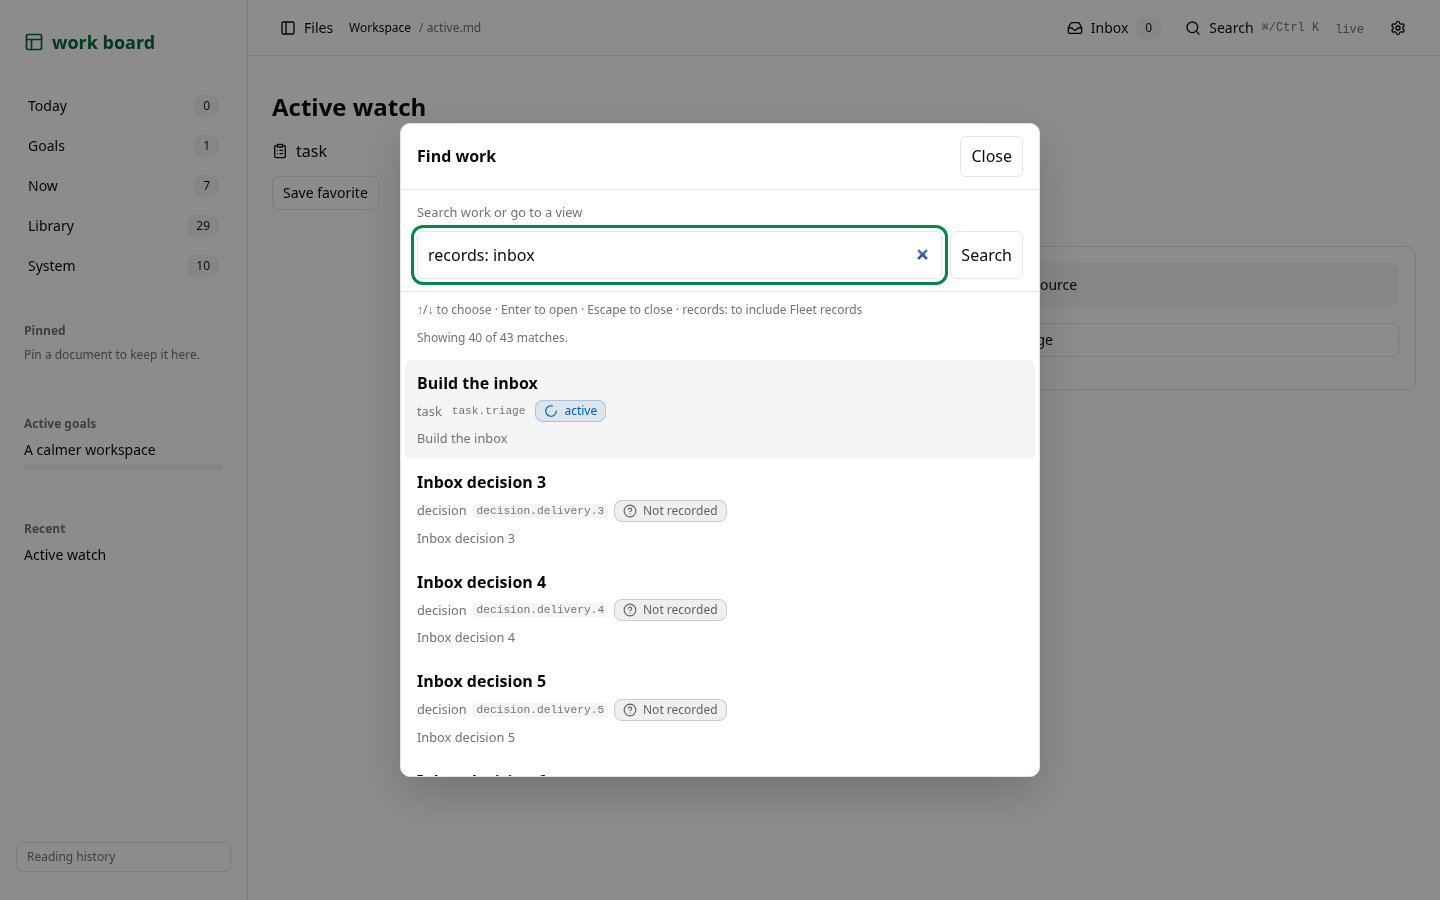
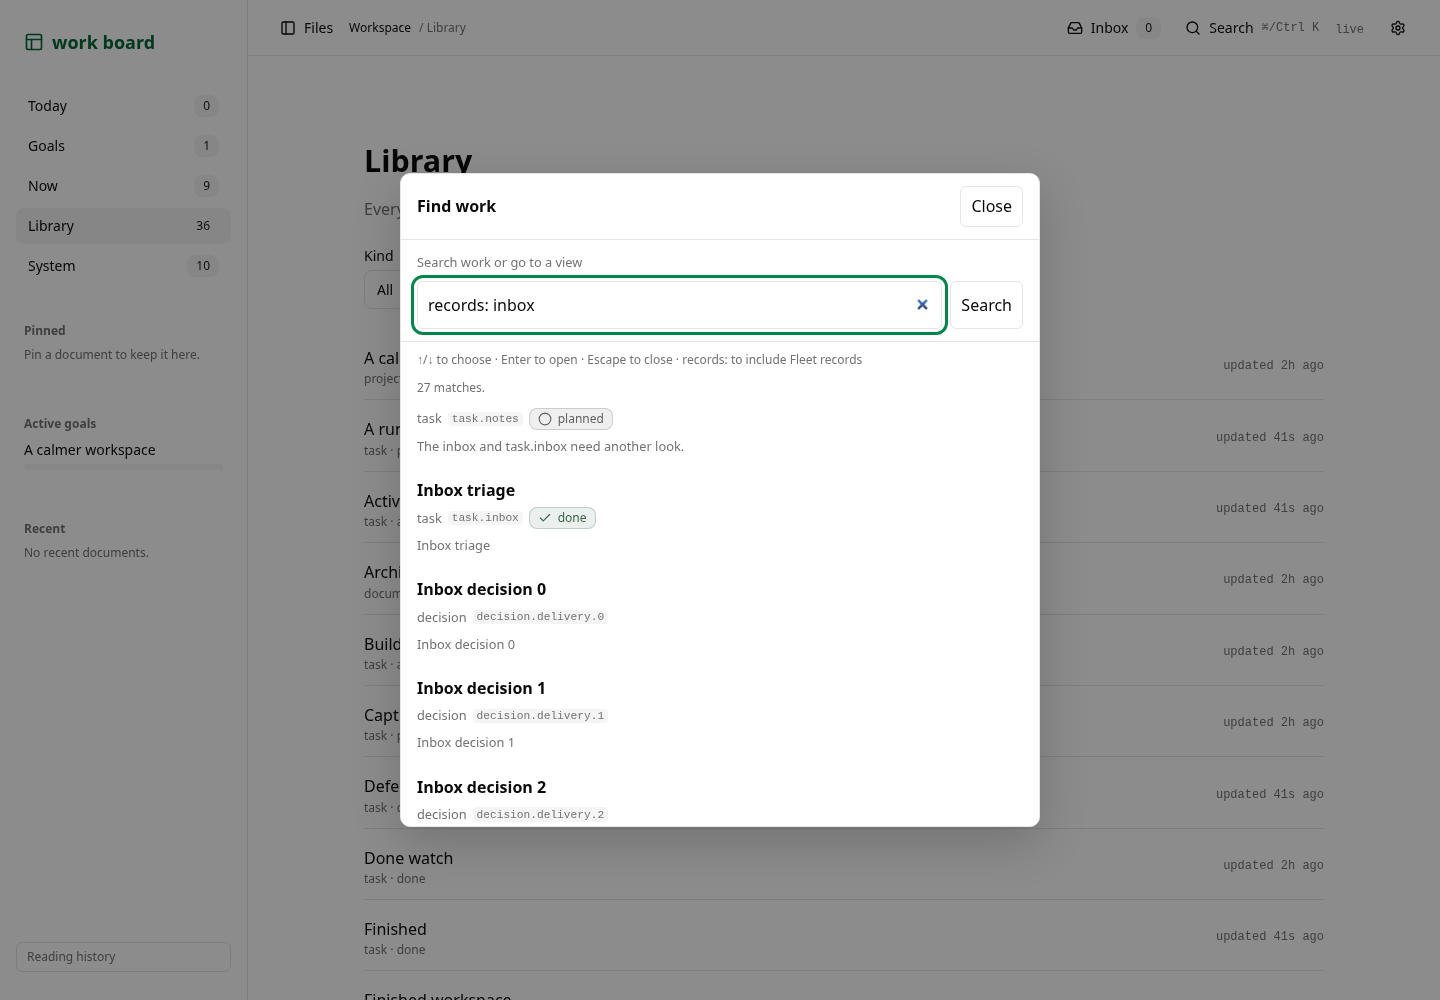
Rank work items before passages and filter Fleet report sources

diff --git a/packages/work-board/src/client/react/fleetSearch.dom.spec.tsx b/packages/work-board/src/client/react/fleetSearch.dom.spec.tsx
@@ -1,0 +1,73 @@
+import { act } from "react";
+import { expect, it, vi } from "vitest";
+import { eventually, expectNoReactWarnings } from "@shivaedev/effect-react/testing.ts";
+import { renderBoard } from "#test/react.tsx";
+import { fleetRankingFixture } from "#test/searchRankingFixture.ts";
+import { SearchDialog } from "./SearchDialog.tsx";
+
+Object.assign(globalThis, { "IS_REACT_ACT_ENVIRONMENT": true });
+expectNoReactWarnings();
+
+it("puts open body matches and done items before headings, includes Fleet status and reports only with records:, and keeps anchors unique", async () => {
+	const { files, modified } = fleetRankingFixture();
+	const view = await renderBoard(
+		files,
+		(api) => (
+			<SearchDialog
+				api={api}
+				appearance={{ change: vi.fn(), closed: false, density: "comfortable", notice: "", theme: "light" }}
+				close={vi.fn()}
+				open
+				toggleSidebar={vi.fn()}
+			/>
+		),
+		{ home: undefined, modified },
+	);
+	function rows() {
+		return [...view.container.querySelectorAll<HTMLAnchorElement>('[role="option"]')];
+	}
+	function type(query: string) {
+		const field = view.container.querySelector("input");
+		if (!field) {
+			throw new Error("Missing palette input");
+		}
+		act(() => {
+			field.value = query;
+			field.dispatchEvent(new Event("input", { bubbles: true }));
+		});
+	}
+	try {
+		for (const query of ["watch", "records: watch"]) {
+			type(query);
+			await eventually(() => expect(rows()[0]?.getAttribute("href")).toBe("/_board/item/task.review/"));
+			expect(
+				rows()
+					.slice(0, 2)
+					.map((row) => row.querySelector("strong")?.textContent),
+			).toEqual(["Keep reviews visible", "Done watch"]);
+			expect(
+				rows()
+					.slice(0, 2)
+					.map((row) => row.querySelector("[data-status-token]")?.textContent),
+			).toEqual(["active", "done"]);
+			expect(rows()[0]?.querySelector("p")?.textContent).toBe("The watch keeps running.");
+			expect(rows().some((row) => row.querySelector("strong")?.textContent === "Watch notes")).toBe(true);
+			const hrefs = rows().map((row) => row.getAttribute("href"));
+			expect(new Set(hrefs).size).toBe(hrefs.length);
+			const recordRows = rows().filter((row) => /(?:fleet\/status|responses\/fleet-report)/u.test(row.href));
+			if (query.startsWith("records:")) {
+				expect(recordRows.length).toBeGreaterThan(0);
+				expect(hrefs.findIndex((href) => href?.startsWith("/responses/fleet-report."))).toBeGreaterThan(1);
+				expect(hrefs.findIndex((href) => href?.startsWith("/fleet/status.md"))).toBeGreaterThan(1);
+			} else {
+				expect(recordRows).toEqual([]);
+			}
+			expect(view.container.textContent).not.toContain("Not recorded");
+			for (const row of rows()) {
+				expect(row.querySelector("p")?.textContent ?? "").not.toMatch(/^(?:\{|---)|(?:id|kind|status):/u);
+			}
+		}
+	} finally {
+		await view.unmount();
+	}
+});

diff --git a/packages/work-board/src/server/search/match.ts b/packages/work-board/src/server/search/match.ts
@@ -5,6 +5,13 @@ function normalize(text: string): string {
 	return text.normalize("NFKC").toLowerCase().replace(/\s+/gu, " ").trim();
 }
 
+function resultType(entry: Entry): number {
+	if (entry.record) {
+		return 2;
+	}
+	return entry.kind === "document" && entry.itemKind ? 0 : 1;
+}
+
 function relevance(entry: Entry, terms: readonly string[], phrase: string, text: string) {
 	const identity = normalize(`${entry.title} ${entry.id ?? ""}`);
 	const titleMatch = entry.kind === "document" && terms.every((term) => identity.includes(term));
@@ -20,6 +27,7 @@ export function searchMatch(entries: readonly Entry[], query: string, modified: 
 	if (terms.length === 0) {
 		return { results: [], total: 0 };
 	}
+	const items = new Map(entries.filter((entry) => entry.kind === "document" && entry.itemKind && !entry.record).map((entry) => [entry.file, entry]));
 	const matches = entries
 		.flatMap((entry, order) => {
 			const text = normalize(entry.text);
@@ -27,19 +35,29 @@ export function searchMatch(entries: readonly Entry[], query: string, modified: 
 				return [];
 			}
 			const snippet = searchSnippet(entry.kind === "document" ? entry.title : entry.text, terms[0] ?? "");
-			return [
-				{
-					...relevance(entry, terms, phrase, text),
-					entry: { ...entry, snippet },
-					group: entry.inactive ? 1 : 0,
-					modified: modified.get(entry.file) ?? 0,
-					order,
-				},
-			];
+			const item = entry.kind === "document" ? undefined : items.get(entry.file);
+			return (item ? [item, entry] : [entry]).map((result) => ({
+				...relevance(result, terms, phrase, text),
+				entry: { ...result, snippet },
+				group: result.inactive ? 1 : 0,
+				modified: modified.get(result.file) ?? 0,
+				order,
+				type: resultType(result),
+			}));
 		})
 		.sort(
 			(left, right) =>
-				left.group - right.group || left.title - right.title || right.modified - left.modified || left.rank - right.rank || left.order - right.order,
+				left.type - right.type
+				|| left.group - right.group
+				|| left.title - right.title
+				|| right.modified - left.modified
+				|| left.rank - right.rank
+				|| left.order - right.order,
 		);
-	return { results: matches.slice(0, 40).map((match) => match.entry), total: matches.length };
+	const anchors = new Map<string, (typeof matches)[number]["entry"]>();
+	for (const match of matches) {
+		anchors.set(match.entry.href, anchors.get(match.entry.href) ?? match.entry);
+	}
+	const results = [...anchors.values()];
+	return { results: results.slice(0, 40), total: results.length };
 }

diff --git a/packages/work-board/src/server/search/entries.test.ts b/packages/work-board/src/server/search/entries.test.ts
@@ -36,7 +36,11 @@ describe("search passages", () => {
 
 	it.live("ranks titles then headings then passages, bounds results, and matches terms deterministically", function* () {
 		const entries = yield* Effect.promise(() =>
-			entriesOf(`# Needle\n\n## Needle section\n\n${Array.from({ length: 50 }, (_, i) => `Needle ${i} other.`).join("\n\n")}`, "needle.md", false),
+			entriesOf(
+				`# Needle\n\n## Needle section\n\n${Array.from({ length: 50 }, (_, i) => `### Entry ${i}\n\nNeedle ${i} other.`).join("\n\n")}`,
+				"needle.md",
+				false,
+			),
 		);
 		const found = searchMatch(entries, "needle");
 		expect(found.total).toBe(53);
@@ -45,5 +49,20 @@ describe("search passages", () => {
 		expect(searchMatch(entries, "other 49").results[0]?.snippet).toBe("Needle 49 other.");
 		expect(searchMatch(entries, "missing").results).toEqual([]);
 		expect(searchMatch(entries, "  ").total).toBe(0);
+	});
+
+	it.live("keeps the best matching block per anchor before limiting and counting results", function* () {
+		const entries = yield* Effect.promise(() =>
+			entriesOf(
+				`# Notes\n\n## Needle\n\n${Array.from({ length: 50 }, (_, i) => `Needle detail ${i}.`).join("\n\n")}\n\n## Other\n\nNeedle elsewhere.`,
+				"note.md",
+				false,
+			),
+		);
+		const found = searchMatch(entries, "needle");
+		expect(found.total).toBe(2);
+		expect(found.results.map((entry) => entry.kind)).toEqual(["heading", "passage"]);
+		expect(found.results.map((entry) => entry.href)).toEqual(["/note.md#heading-needle", "/note.md#heading-other"]);
+		expect(found.results[0]?.snippet).toBe("Needle");
 	});
 });

diff --git a/packages/work-board/src/client/react/palette.dom.spec.tsx b/packages/work-board/src/client/react/palette.dom.spec.tsx
@@ -56,6 +56,20 @@ it("offers go-to views and open goals, ranks a matching command first and shows 
 		expect(rows()[0]?.querySelector("small")?.textContent).toContain("task");
 		expect(rows()[0]?.querySelector("[data-status-token]")?.textContent).toBe("active");
 		expect(view.container.textContent).not.toContain("Inbox decision");
+		type("records: inbox");
+		await eventually(() => expect(rows().some((row) => row.querySelector("strong")?.textContent === "Inbox decision 9")).toBe(true));
+		expect(rows()[0]?.querySelector("strong")?.textContent).toBe("Build the inbox");
+		expect(
+			new Set(
+				rows()
+					.map((row) => row.querySelector("code")?.textContent)
+					.filter((id) => id?.startsWith("decision.delivery.")),
+			).size,
+		).toBe(10);
+		expect(view.container.textContent).not.toContain("Not recorded");
+		for (const row of rows()) {
+			expect(row.querySelector("p")?.textContent ?? "").not.toMatch(/^(?:\{|---)|(?:id|kind|next_action):/u);
+		}
 		type("workspace");
 		await eventually(() => expect(rows()[0]?.querySelector("strong")?.textContent).toBe("Open workspace"));
 		expect(rows().findIndex((row) => row.querySelector("strong")?.textContent === "A calmer workspace")).toBeGreaterThan(0);

diff --git a/packages/work-board/src/server/page/identityReading.dom.spec.ts b/packages/work-board/src/server/page/identityReading.dom.spec.ts
@@ -92,10 +92,10 @@ effectApp("keeps focus on a criterion opened through search within the active it
 	input.value = "Escape returns focus";
 	input.dispatchEvent(new page.window.Event("input", { bubbles: true }));
 	yield* Effect.promise(() =>
-		waitFor(() =>
-			expect(page.document.querySelector("#search-results a")?.getAttribute("href")).toBe("/_board/item/work.search/#criterion-keyboard"),
-		),
+		waitFor(() => expect(page.document.querySelector('#search-results a[href="/_board/item/work.search/#criterion-keyboard"]')).not.toBeNull()),
 	);
+	input.dispatchEvent(new page.window.KeyboardEvent("keydown", { bubbles: true, cancelable: true, key: "ArrowDown" }));
+	yield* Effect.promise(() => waitFor(() => expect(input.getAttribute("aria-activedescendant")).toBe("search-result-1")));
 	input.dispatchEvent(new page.window.KeyboardEvent("keydown", { bubbles: true, cancelable: true, key: "Enter" }));
 	yield* Effect.promise(() => waitFor(() => expect(page.document.activeElement?.id).toBe("criterion-keyboard")));
 	yield* Effect.promise(() => waitFor(() => expect(page.document.querySelector(".work-meta")?.closest("[hidden]") === null).toBe(true)));

diff --git a/packages/work-board/src/test-support/searchRankingFixture.ts b/packages/work-board/src/test-support/searchRankingFixture.ts
@@ -40,3 +40,25 @@ export function identityRankingFixture(titleStatus: string, passageStatus: strin
 		]),
 	};
 }
+
+export function fleetRankingFixture() {
+	const report = `# Watch report\n\n${Array.from({ length: 18 }, (_, index) => `## Watch ${index}\n\nWatch progress.\n\nWatch details.`).join("\n\n")}`;
+	return {
+		files: {
+			"done.md": "---\nid: task.watch-done\nkind: task\nstatus: done\n---\n# Done watch\n",
+			"fleet/status.md": report,
+			"notes.md": "# Notes\n\n## Watch notes\n\nWatch details.\n\nWatch updates.\n",
+			"open.md": "---\nid: task.review\nkind: task\nstatus: active\n---\n# Keep reviews visible\n\nThe watch keeps running.\n",
+			"responses/fleet-report.2026-10-15.md": "# Archived watch report\n\nWatch context.\n",
+			"responses/fleet-report.md": report,
+		},
+		modified: new Map([
+			["open.md", 1000],
+			["done.md", 2000],
+			["notes.md", 3000],
+			["fleet/status.md", 4000],
+			["responses/fleet-report.md", 5000],
+			["responses/fleet-report.2026-10-15.md", 6000],
+		]),
+	};
+}

diff --git a/packages/work-board/src/server/http/identity.test.ts b/packages/work-board/src/server/http/identity.test.ts
@@ -101,10 +101,11 @@ effectApp("indexes declared IDs/status/owner and criteria at exact source locati
 	expect(body.results[0]?.href).toBe("/_board/item/work.search/");
 	expect(body.results[0]?.line).toBe(23);
 	const criteria = yield* rpcSearch(board, "Escape returns focus");
-	expect(criteria.results[0]?.href).toBe("/_board/item/work.search/#criterion-keyboard");
-	expect(criteria.results[0]?.line).toBe(8);
+	expect(criteria.results[0]?.href).toBe("/_board/item/work.search/");
+	expect(criteria.results.find((result) => result.href.endsWith("#criterion-keyboard"))?.line).toBe(8);
 	const prose = yield* rpcSearch(board, "Readable project prose");
-	expect(prose.results[0]?.line).toBe(25);
+	expect(prose.results[0]?.href).toBe("/_board/item/work.search/");
+	expect(prose.results.find((result) => result.kind === "passage")?.line).toBe(25);
 });
 
 effectApp("keeps invalid and unknown metadata visible without making prose unreadable", function* () {

diff --git a/packages/work-board/src/server/search/metadataEntries.ts b/packages/work-board/src/server/search/metadataEntries.ts
@@ -58,7 +58,11 @@ export function metadataEntries(
 			id: fields?.id,
 			inactive: document ? closedItem(document) || deferredItem(document) : false,
 			itemKind: fields?.kind,
-			record: records.has(entry.file) || Boolean(fields?.question || fields?.response || fields?.requestReceipt),
+			record:
+				entry.file === "fleet/status.md"
+				|| entry.file.startsWith("responses/fleet-report.")
+				|| records.has(entry.file)
+				|| Boolean(fields?.question || fields?.response || fields?.requestReceipt),
 			status: fields?.status,
 		};
 	});

diff --git a/packages/work-board/src/client/react/SearchResults.tsx b/packages/work-board/src/client/react/SearchResults.tsx
@@ -39,7 +39,7 @@ export function SearchResults({
 						<small>
 							{item.itemKind ?? item.kind}
 							{Boolean(item.id) && <code className="font-mono">{item.id}</code>}
-							{item.kind !== "command" && <StatusChip status={item.status} />}
+							{Boolean(item.status) && <StatusChip status={item.status} />}
 							{!item.id && item.file ? ` · ${item.file}${item.line ? `:${item.line}` : ""}` : ""}
 						</small>
 						{Boolean(item.snippet) && <p>{item.snippet}</p>}

diff --git a/packages/work-board/src/server/search/ranking.spec.ts b/packages/work-board/src/server/search/ranking.spec.ts
@@ -49,6 +49,6 @@ it.live.each([
 			status: titleStatus,
 			title: "Inbox triage",
 		});
-		expect(results.find((entry) => entry.id === "task.notes")).toMatchObject({ kind: "passage", status: passageStatus });
+		expect(results.find((entry) => entry.id === "task.notes")).toMatchObject({ kind: "document", status: passageStatus });
 	}
 });

diff --git a/packages/work-board/README.md b/packages/work-board/README.md
@@ -159,7 +159,7 @@ Use ordinary image Markdown for source-relative PNG, JPEG, GIF or WebP files. Th
 
 ### 3. Every day: read, compare and give direction
 
-**Search** or Ctrl/Cmd+K opens the command palette. Go-to commands open Today (Inbox), Goals, Now (Work board), Library (workspace documents), System (Diagnostics) and each open goal from the goals query. Appearance commands toggle the file sidebar, density and theme. Results update as you type; matching commands come first. Search finds document titles/paths, IDs, headings, passages and recorded work fields. Matching uses the first 200 query characters and up to eight terms; each term must occur in a block, ignoring case. Open work ranks before closed and deferred work, including when open passages match a closed item's title or ID. Within each status group, item title and ID matches come first, followed by the most recently changed sources; document, heading and passage order breaks remaining ties. Item results show their ID, kind and authored status. Fleet decisions, captured questions, responses and application receipts appear only when the query starts with `records:`. Snippets omit structured metadata. At most 40 source results are shown with the full match count. Arrow keys choose, Enter opens, and Escape closes. Incomplete reads are disclosed, and older requests cannot replace a newer query. Search requires JavaScript. `src/server/search/palette.spec.ts`, `src/server/search/ranking.spec.ts`, `src/client/react/palette.dom.spec.tsx` and `src/client/react/searchRanking.dom.spec.tsx` cover record filtering, ranking, snippets and commands with fixtures.
+**Search** or Ctrl/Cmd+K opens the command palette. Go-to commands open Today (Inbox), Goals, Now (Work board), Library (workspace documents), System (Diagnostics) and each open goal from the goals query. Appearance commands toggle the file sidebar, density and theme. Results update as you type; matching commands come first. Search finds document titles/paths, IDs, headings, passages and recorded work fields. Matching uses the first 200 query characters and up to eight terms; each term must occur in a block, ignoring case. Item results rank before headings and passages. Within items, open work ranks before closed and deferred work, title and ID matches rank before body matches, then the most recently changed sources come first. Body matches also return the item itself. Each anchor appears once, retaining its best match before the result limit and count. Item results show their ID, kind and authored status; rows without a recorded status omit the chip. Fleet decisions, captured questions, responses, application receipts, `fleet/status.md` and `responses/fleet-report.*` appear only when the query starts with `records:`. Snippets omit structured metadata. At most 40 source results are shown with the full match count. Arrow keys choose, Enter opens, and Escape closes. Incomplete reads are disclosed, and older requests cannot replace a newer query. Search requires JavaScript. `src/server/search/palette.spec.ts`, `src/server/search/ranking.spec.ts`, `src/client/react/palette.dom.spec.tsx` and `src/client/react/searchRanking.dom.spec.tsx` and `src/client/react/fleetSearch.dom.spec.tsx` cover record filtering, ranking, snippets and commands with fixtures.
 
 Back restores selected text and expanded details. Reading history opens a bounded dialog with favorites and up to ten unique recents. Favorites and recents belong to the workspace/origin; deleted favorites remain labeled missing. Save up to ten named Work views with the applied board, filters, sort and layout. Selection stays in the URL, and saving the same name updates it. At capacity, remove or update a view; none is silently evicted. Unavailable storage is disclosed, with controls usable for the current page.
 

diff --git a/packages/work-board/changes/work-search.md b/packages/work-board/changes/work-search.md
@@ -4,4 +4,4 @@
 
 ### Fixed
 
-- Search ranks open work before closed and deferred work, then title and ID matches before body matches within each status group, then recently changed sources before older ones, excludes Fleet records unless the query starts with `records:`, and omits structured metadata from snippets.
+- Search ranks items before headings and passages, open work before closed and deferred work, then title and ID matches before body matches and recently changed sources before older ones. Fleet records, including `fleet/status.md` and `responses/fleet-report.*`, require `records:`. Snippets omit structured metadata, each anchor appears once, and rows without a recorded status omit the status chip.
